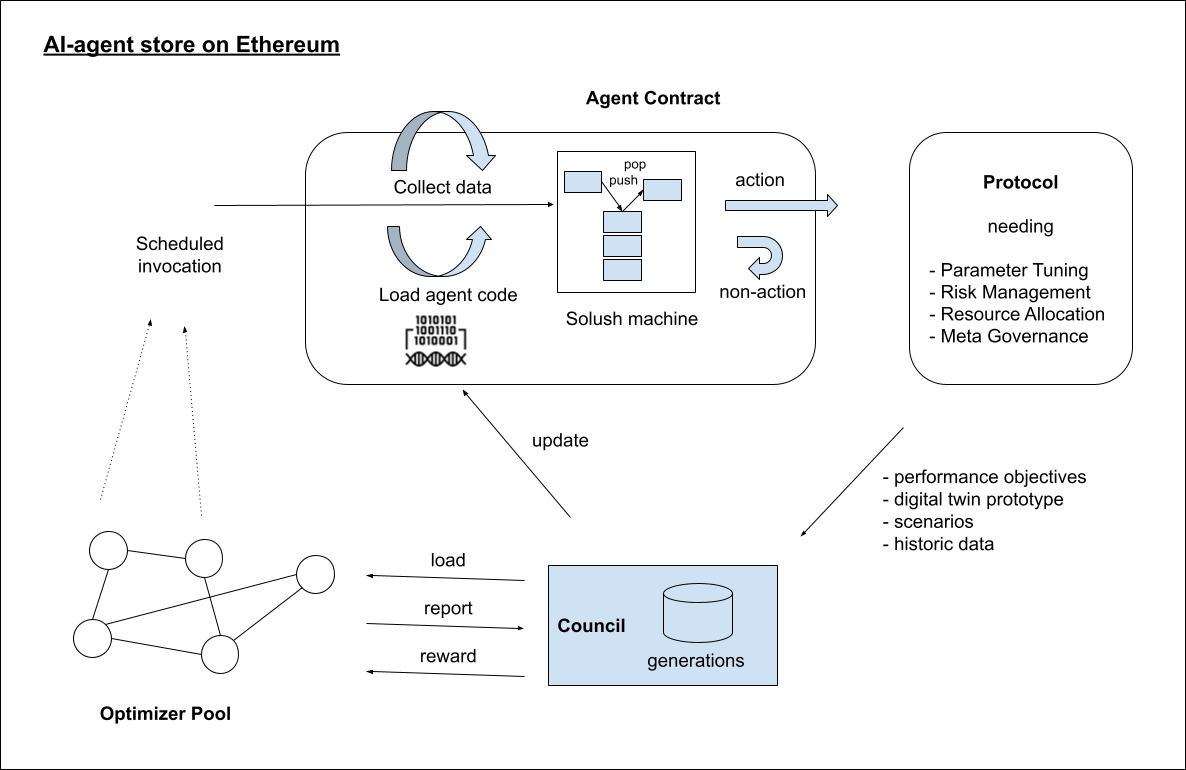
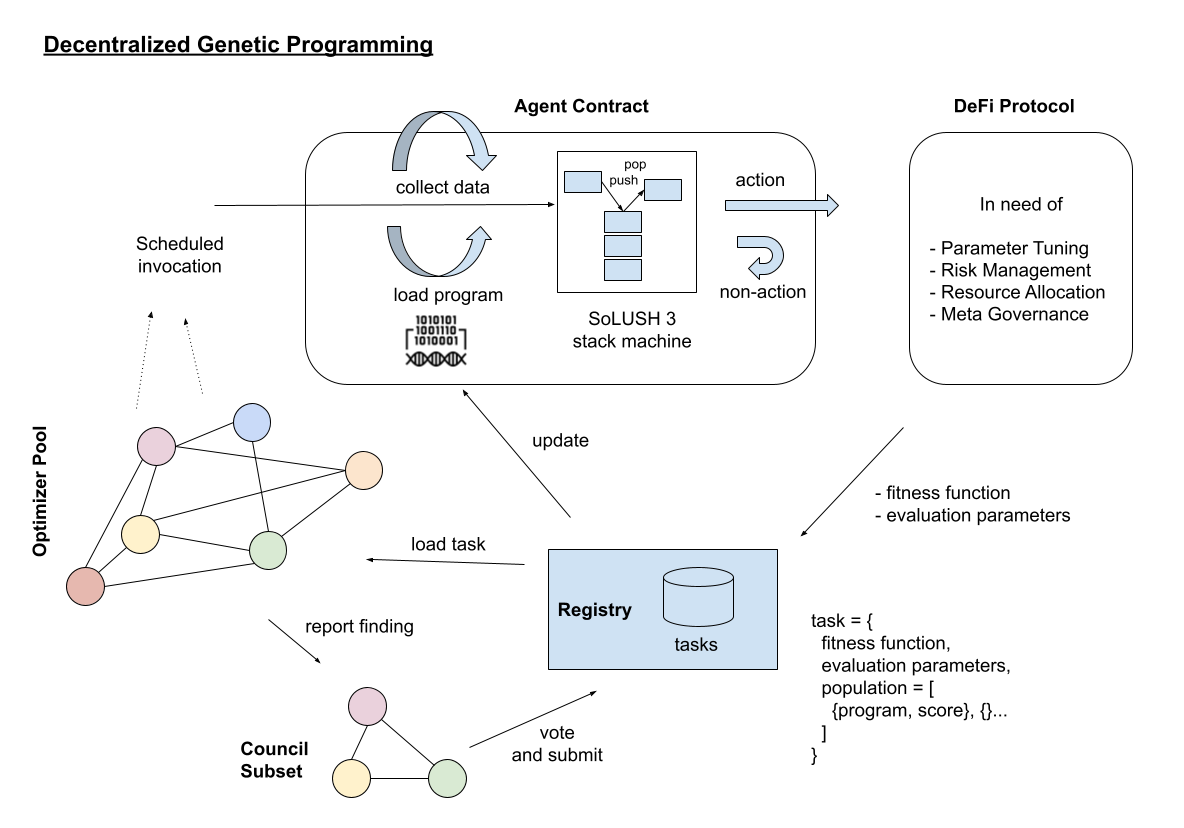
improve vision doc (#16)

diff --git a/vision.md b/vision.md
@@ -41,13 +41,33 @@ An agent is defined as an entity capable of perceiving its environment, processi
 
 ---
 
-## **Theoretical Framework for Decentralized Algorithm Evolution**
+## **Theoretical Framework for Decentralized Genetic Programming**
 
-A protocol providing agents as a service could leverage genetic algorithms to address complex problems within blockchain environments. Read through this [real-life usecase explaining the applicability of agents to DeFi](example.md). Central to such a system would be the development of a Push 3 Virtual Machine (VM), enabling efficient execution of genetic algorithms. An "Optimizer Pool", an network of nodes could collaboratively train and evolve these algorithms offchain. These nodes would compete to improve the fitness of the algorithms. Once an improvement, a measuruable better solution to the fitness function is found in off-chain computation, a node would submit it to be accepted into the population of solutions registered on chain, in exchange for a rewards payment by the protocol. The nodes of the optimizer pool would run under an incentivization model simira to proof-of-work systems.
+A protocol providing agents as a service could leverage genetic programming to address complex problems within blockchain environments. Central to such a system would be the development of a Push 3 Virtual Machine (VM), enabling efficient execution of genetic algorithms. Furthermore, this protocol would combines on-chain smart contracts with off-chain optimization to evolve and deploy efficient algorithms for DeFi tasks.
+
+### On-Chain: Tasks and Deployment
+1. **Task Creation**: Optimization problems are registered as "Tasks" in the "Registry." Each Task includes:
+   - A fitness function (goal criteria).
+   - Evaluation parameters (data and conditions).
+   - A population of algorithms (initially empty).
+2. **Agent Deployment**: The best-performing algorithm from the population is selected and deployed to the relevant smart contract. Read through this [real-life usecase explaining the applicability of agents to DeFi](example.md). When better algorithms are discovered, the on-chain agent is updated.
+
+### Off-Chain: Evolution and Validation
+1. **Task Selection**: Optimizers (network participants) fetch a Task from the Registry.
+2. **Algorithm Evolution**:
+   - Optimizers run simulations locally using synthetic or historical blockchain data.
+   - Genetic algorithms are applied to evolve better solutions, improving fitness scores.
+3. **Submission and Validation**: Improved algorithms are submitted to a "Validator Pool," which verifies the results. Validators vote on whether to accept the new algorithm into the population, replacing weaker ones.
+4. **Incentives**: Successful submissions earn rewards for the Optimizer.
+
+### Key Components
+- **Registry (on-chain)**: Manages Tasks and stores algorithm populations.
+- **Optimizers (off-chain)**: Compete to evolve better solutions.
+- **Validator Pool (off-chain)**: Ensures the quality and legitimacy of submissions.
 
 ![Components](/components.png)
 
-To evaluate the effectiveness of distributed evolution, a "Council" mechanism needs to be created. This Council would consist of validators who execute the latest evolved algorithms and assess their performance against a predefined target fitness function. Validators would then cast votes on whether the new algorithms deliver measurable improvements. This transparent voting process ensures that only the most effective solutions are rewarded and integrated, fostering trust and collaboration across the Optimizer Pool. By aligning incentives with measurable progress, such a framework provides a reliable and decentralized method for advancing algorithmic evolution.
+This framework integrates off-chain computation with on-chain validation and deployment, ensuring scalable, transparent optimization. By decentralizing the process, it aligns incentives and fosters continuous improvement tailored to real-world DeFi needs. Ultimately, this system creates a foundation for scalable agent development, aligning with the broader concept of agents as a service, where users and protocols in DeFi can deploy and leverage optimized, evolving AI-agents tailored to specific tasks.
 
-Ultimately, this system creates a foundation for scalable agent development, aligning with the broader concept of agents as a service, where users and protocols in DeFi can deploy and leverage optimized, evolving algorithms tailored to specific tasks.
+
 
